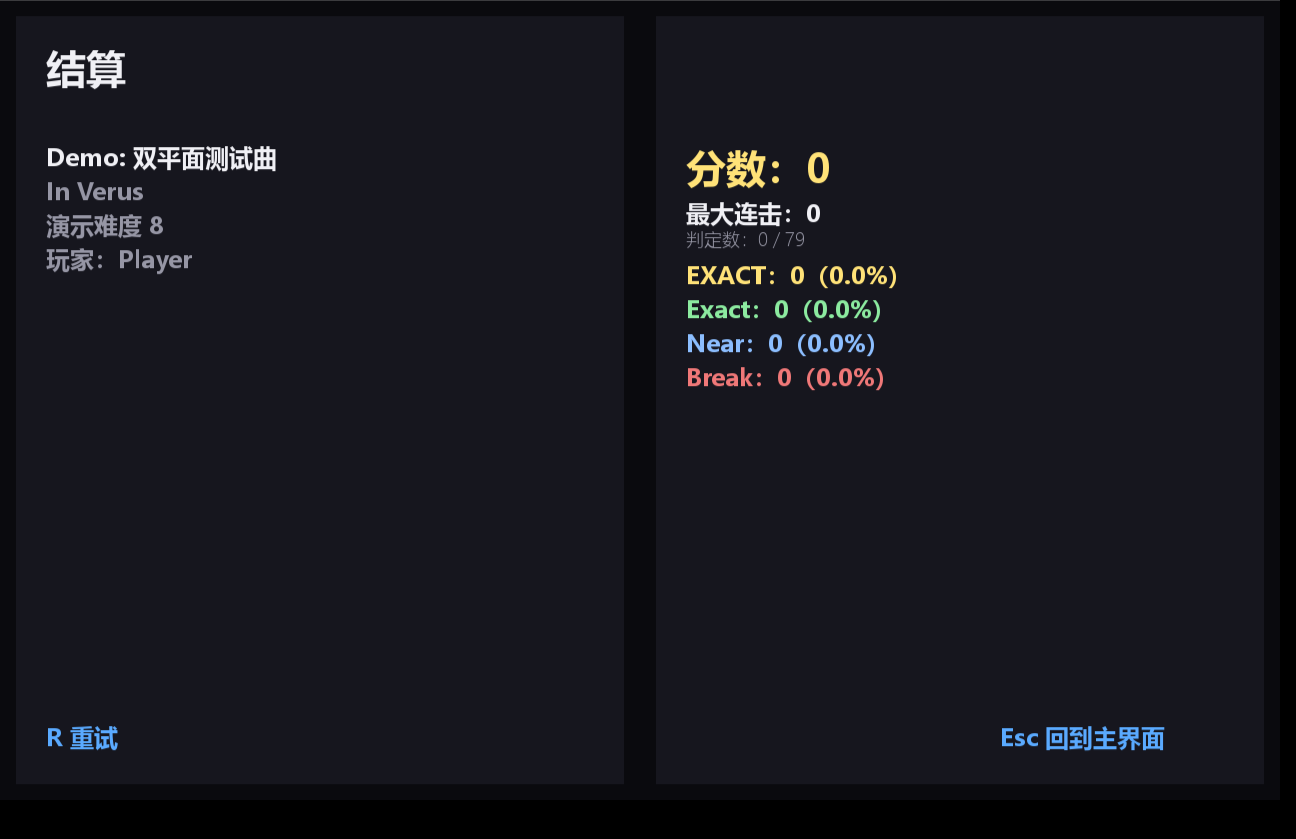
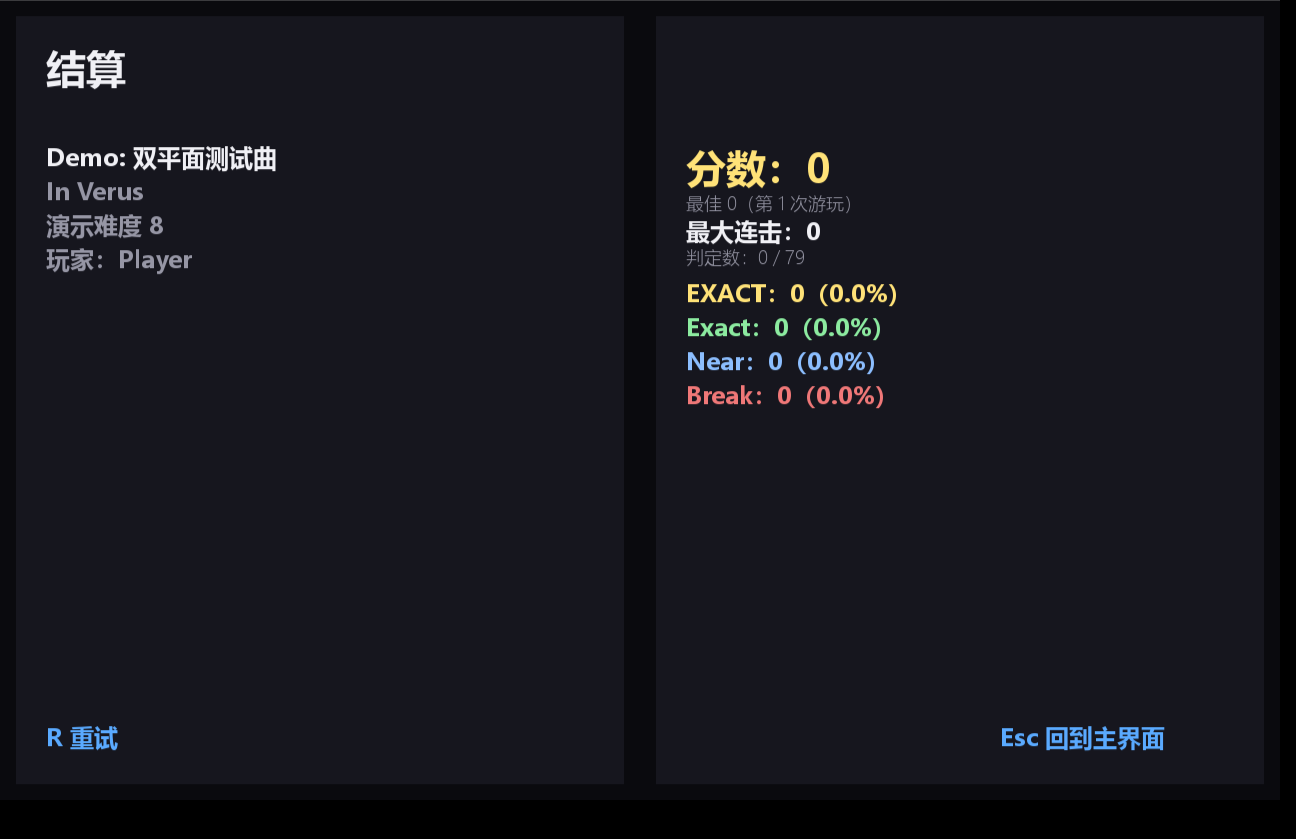
feat(player): 本地成绩记录（最佳分 / 最大连击 / 游玩次数）与新纪录提示
- PLAYER_SETTINGS.records：按谱面路径记录 score / max_combo / plays / accuracy，
  损坏数据在读档时自动修复；只有更高分才算“新纪录”
- 结算时写入成绩：刷新最高分显示「★ 新纪录！」，并显示历史最佳与游玩次数
- 主界面每条谱面右侧显示「最佳 N · 最大连击 M · K 次」
- 292 项测试全绿；截图刷新

Changed region(s): [[0.5247, 0.2169, 0.7099, 0.4958]]

diff --git a/src/rhythm_editor/game/app.py b/src/rhythm_editor/game/app.py
@@ -118,6 +118,7 @@ class PlayerApp:
         self.mouse_norm = 0.5
         self.message = ""
         self.settings_row = 0
+        self.new_record = False
 
     # ------------------------------------------------------------ 通用
     @property
@@ -408,6 +409,11 @@ class PlayerApp:
     def _finish(self) -> None:
         self.audio.pause()
         self.paused = False
+        if self.judge is not None and self.chart is not None and self.chart_path:
+            self.new_record = self.settings.update_record(
+                self.chart_path, self.judge.score, self.judge.max_combo, self.judge.accuracy
+            )
+            psettings.save_settings(self.settings)
         self.state = "result"
 
     def _toggle_pause(self) -> None:
@@ -488,6 +494,14 @@ class PlayerApp:
                 self.f_small,
                 (110, 110, 124) if chosen else (86, 86, 96),
             )
+            best = self.settings.record_for(path)
+            if best["plays"]:
+                self.text(
+                    f"最佳 {int(best['score'])} · 最大连击 {int(best['max_combo'])} · {int(best['plays'])} 次",
+                    (self.w * 0.62, 200 + offset * 46),
+                    self.f_small,
+                    (120, 160, 120) if chosen else (96, 116, 96),
+                )
         if self.message:
             self.center_text(self.message, self.h - 70, self.f_small, (240, 120, 120))
 
@@ -812,11 +826,20 @@ class PlayerApp:
             self.text(line, (46, 140 + index * 34), self.f_mid, WHITE if index == 0 else DIM)
         counts = self.judge.counts
         self.text(f"分数：{self.judge.score}", (half + 46, 140), self.f_big, (255, 226, 120))
-        self.text(f"最大连击：{self.judge.max_combo}", (half + 46, 196), self.f_mid, WHITE)
+        if self.new_record:
+            self.text("★ 新纪录！", (half + 300, 152), self.f_mid, (140, 235, 160))
+        best = self.settings.record_for(self.chart_path)
+        self.text(
+            f"最佳 {int(best['score'])}（第 {int(best['plays'])} 次游玩）",
+            (half + 46, 190),
+            self.f_small,
+            DIM,
+        )
+        self.text(f"最大连击：{self.judge.max_combo}", (half + 46, 214), self.f_mid, WHITE)
         total = max(1, self.judge.total_notes)
         self.text(
             f"判定数：{self.judge.judged_notes} / {self.judge.total_notes}",
-            (half + 46, 226),
+            (half + 46, 244),
             self.f_small,
             DIM,
         )
@@ -824,7 +847,7 @@ class PlayerApp:
             share = counts[grade] / total * 100.0
             self.text(
                 f"{grade}：{counts[grade]}（{share:.1f}%）",
-                (half + 46, 258 + index * 34),
+                (half + 46, 276 + index * 34),
                 self.f_mid,
                 GRADE_COLORS[grade],
             )

diff --git a/src/rhythm_editor/game/settings.py b/src/rhythm_editor/game/settings.py
@@ -31,6 +31,8 @@ class PlayerSettings:
     music_volume: float = 1.0
     hit_volume: float = 0.6
     recent: List[str] = field(default_factory=list)     # 最近打开的谱面（最多 8 条）
+    # 每张谱面的本地成绩：{路径: {"score": int, "max_combo": int, "plays": int, "accuracy": float}}
+    records: Dict[str, Dict[str, float]] = field(default_factory=dict)
 
     def normalize(self) -> None:
         self.keys = [
@@ -52,6 +54,32 @@ class PlayerSettings:
             if text and text not in unique:
                 unique.append(text)
         self.recent = unique[:8]
+        clean_records: Dict[str, Dict[str, float]] = {}
+        for path, record in self.records.items():
+            if not isinstance(record, dict):
+                continue
+            clean_records[str(path)] = {
+                "score": int(record.get("score", 0)),
+                "max_combo": int(record.get("max_combo", 0)),
+                "plays": int(record.get("plays", 0)),
+                "accuracy": float(record.get("accuracy", 0.0)),
+            }
+        self.records = clean_records
+
+    def record_for(self, path: str) -> Dict[str, float]:
+        return self.records.get(path, {"score": 0, "max_combo": 0, "plays": 0, "accuracy": 0.0})
+
+    def update_record(self, path: str, score: int, max_combo: int, accuracy: float) -> bool:
+        """写入一局成绩；返回是否刷新了最高分。"""
+        best = self.record_for(path)
+        improved = int(score) > int(best["score"])
+        self.records[path] = {
+            "score": max(int(score), int(best["score"])),
+            "max_combo": max(int(max_combo), int(best["max_combo"])),
+            "plays": int(best["plays"]) + 1,
+            "accuracy": max(float(accuracy), float(best["accuracy"])),
+        }
+        return improved
 
     def to_dict(self) -> Dict[str, object]:
         self.normalize()
@@ -72,6 +100,7 @@ class PlayerSettings:
             music_volume=float(data.get("music_volume", 1.0)),
             hit_volume=float(data.get("hit_volume", 0.6)),
             recent=list(data.get("recent", [])),  # type: ignore[arg-type]
+            records=dict(data.get("records", {})),  # type: ignore[arg-type]
         )
         obj.normalize()
         return obj

diff --git a/tests/test_game_settings.py b/tests/test_game_settings.py
@@ -62,6 +62,27 @@ class PlayerSettingsTests(unittest.TestCase):
         s2.normalize()
         self.assertEqual(s2.recent, ["a.json", "b.json"])
 
+    def test_records_track_best_score_combo_and_plays(self) -> None:
+        """本地成绩：记录最佳分数 / 最大连击 / 游玩次数，只有更高分才算新纪录。"""
+        s = PS.PlayerSettings()
+        self.assertTrue(s.update_record("c.json", 1000, 10, 0.8))
+        self.assertFalse(s.update_record("c.json", 900, 12, 0.7), "更低分不算新纪录")
+        record = s.record_for("c.json")
+        self.assertEqual(record["score"], 1000)
+        self.assertEqual(record["max_combo"], 12)
+        self.assertEqual(record["plays"], 2)
+        self.assertAlmostEqual(record["accuracy"], 0.8)
+        # 存档往返保留成绩
+        with tempfile.TemporaryDirectory() as tmp:
+            path = os.path.join(tmp, "player.json")
+            PS.save_settings(s, path)
+            self.assertEqual(PS.load_settings(path).record_for("c.json")["score"], 1000)
+
+    def test_broken_records_are_repaired(self) -> None:
+        s = PS.PlayerSettings.from_dict({"records": {"a.json": "坏数据", "b.json": {"score": "12"}}})
+        self.assertEqual(s.records["b.json"]["score"], 12)
+        self.assertNotIn("a.json", s.records)
+
 
 if __name__ == "__main__":
     unittest.main()

diff --git a/docs/VERIFICATION.md b/docs/VERIFICATION.md
@@ -113,7 +113,7 @@ python tools/check_audio.py
 
 | 项目 | 命令 | 结果 |
 | --- | --- | --- |
-| 单元测试（含 Tk 画布冒烟测试、应用级测试与游玩器测试） | `python -m unittest discover -s tests -t .` | Ran 290 tests — **OK** |
+| 单元测试（含 Tk 画布冒烟测试、应用级测试与游玩器测试） | `python -m unittest discover -s tests -t .` | Ran 292 tests — **OK** |
 | 需求验收清单 | `python tools/acceptance.py` | 18 项全部 `[OK ]`，结论：全部通过（含游玩器 4 项） |
 | 音频后端 | `python tools/check_audio.py` | 9 项全部 `[OK ]`（pygame.mixer 真实播放，延迟补偿正确） |
 | 示例谱面生成 | `python run_editor.py --make-demo` | 生成 `charts/demo/demo.json`（6K 32 / 区域 3 / 滑键 6 / 点击按键 4 / 4 个速度组） |
@@ -209,7 +209,7 @@ python tools/check_audio.py
 | `tests/test_global_settings.py`（4 条） | **全局设置**：读写往返、损坏文件回退默认值、谱面文件不再包含 `editor` 段、老谱面的 `editor` 段只迁移一次 |
 | `tests/test_game_judge.py`（24 条） | 游玩器判定：EXACT/Exact/Near/Break 窗口、空敲无惩罚、一次按键只判一个、滑键吸附最好等级、空域半拍区间、长按“抬起事件 + 末 50ms 宽限（跨区间）”、多轨长按“所有行同时抬起才算抬起”、准度与分数公式、连击与最大连击 |
 | `tests/test_game_scene.py`（8 条） | 游玩器 3D 布局：1 单位 = 鼠标合法区宽 = 6K 中间四轨；鼠标平面高 0.4；两条判定线位置；近大远小；起点在屏幕上方 |
-| `tests/test_game_settings.py`（7 条） | 游玩器设置：默认键位、范围夹取、键位补齐、全局读写与损坏回退、最近打开列表去重与上限 |
+| `tests/test_game_settings.py`（7 条） | 游玩器设置：默认键位、范围夹取、键位补齐、全局读写与损坏回退、最近打开列表去重与上限、本地成绩（最佳分数/连击/次数）与损坏数据修复 |
 | `tests/test_game_app.py`（6 条） | 游玩器 GUI 冒烟（headless）：主界面 → 加载 → 游玩 → 结算、鼠标映射、设置全局保存、轨道高亮与判定飘字、音量与暂停、谱面列表元数据与最近打开 |
 | `tests/test_editor_smoke.py::test_scrollbar_drag_round_trip_keeps_thumb_under_cursor` | 回归：滚动条滑块拖动不跳段（把滑块放到 f 后读回仍是 `(f, f+窗口占比)`） |
 | `tests/test_audio_rate.py`（16 条） | 倍速（重采样，**变速变调**）：长度随倍率伸缩、0.5x 时频率减半（过零率）、静音时钟跟随倍速、倍速夹取、**负延迟**的 heard 位置、延迟范围、**立体声也能慢放**、**分窗口首尾相接**、**调度连续不断音**（回归：pygame 只播一个排队块）、**打开谱面后第一次播放用真实后端**（回归）、**播放中改倍速自动暂停**并保持位置 |

diff --git a/CHANGELOG.md b/CHANGELOG.md
@@ -4,6 +4,10 @@
 
 ### 游玩器 GUI（可运行）
 
+* **本地成绩记录**：每张谱面记录**最佳分数 / 最大连击 / 游玩次数 / 最佳准度**
+  （存 `player.json`，损坏数据自动修复）。主界面在谱面条目右侧显示
+  「最佳 N · 最大连击 M · K 次」；结算页刷新最高分时显示「★ 新纪录！」，
+  并显示历史最佳与游玩次数。
 * **主界面升级**：每条谱面显示 **标题 · 艺术家 · 难度 · 初始 BPM** 与相对路径；
   谱面多时窗口内翻页显示（↑↓ / Home / End）；**最近打开的 8 张排在最前并带 `*`**
   （记录在 `player.json`）。

diff --git a/docs/PLAYER.md b/docs/PLAYER.md
@@ -46,6 +46,7 @@ python run_player.py charts/demo/demo.json # 直接选中它
   会显示大号连击数；结算页显示「最大连击」。
 * **结算**：左半元数据与玩家、右半分数与各判定数量（不显示准度），
   另有「最大连击」与每个判定占**总判定数的百分比**（不是准度），
+  **刷新最高分时显示「★ 新纪录！」**，并显示该谱面的历史最佳分与游玩次数；
   左下 `R 重试`、右下 `Esc 回主界面`；
 * 截图：`python tools/screenshot_player.py docs/images`
   （`player_menu/settings/play/result.png`）。
